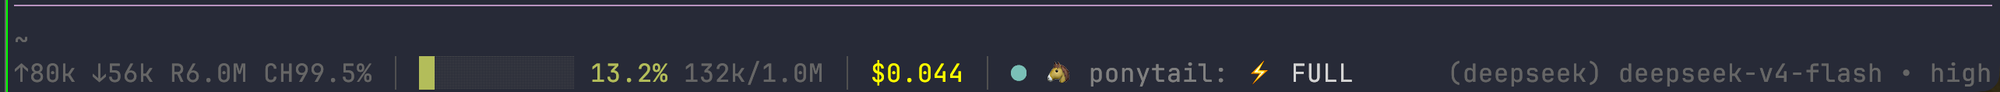
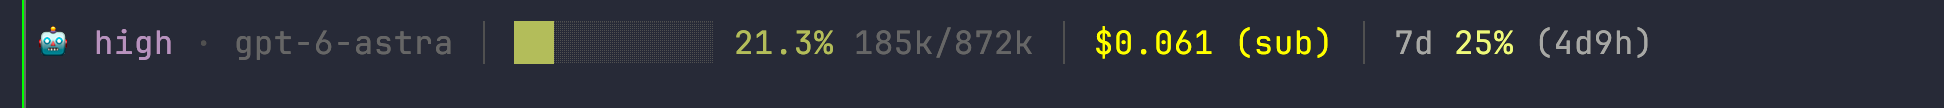
docs: 换成当前版本的底栏截图
新图是 Codex Pro 账户（只有一个 7d 窗口）且不在 git 仓库里（无分支段），
图注相应改写，另外两家 provider 的额度段留作示例对照。

Claude-Session: https://claude.ai/code/session_014fprpit3pKddqHoaLpzKJn

diff --git a/README.md b/README.md
@@ -8,11 +8,11 @@ Every other pi extension covers either subscription windows (Anthropic OAuth, Co
 
 ![The merged footer line](./docs/footer.png)
 
-That shot is on DeepSeek, whose balance is comfortably funded — so the quota segment withdraws itself instead of leaving a gap. On a subscription provider the same line ends with:
+That shot is a Codex Pro account: `7d 25% (4d9h)` is the single 7-day window it returns — no 5h, because Pro does not have one. The branch segment is absent because that session is not in a git repository. The quota segment on the other providers:
 
 ```
-7d 25% (4d11h)                        Codex Pro — one 7-day window is all the account has
 5h 98% (3h12m) · 7d 49% · Fable 13%   Claude — one entry per window
+(nothing)                             DeepSeek — a funded balance stays out of the way
 ```
 
 Verified against **pi 0.85.1 / Node 22.20.0**.

diff --git a/README.zh-CN.md b/README.zh-CN.md
@@ -8,11 +8,11 @@
 
 ![合并后的底栏](./docs/footer.png)
 
-这张图是 DeepSeek 场景，余额充足，所以额度段自己撤掉了，不留空位。换成订阅制 provider 时，同一行末尾会是：
+这张图是 Codex Pro 账户：`7d 25% (4d9h)` 就是它返回的唯一一个 7 天窗口 —— 没有 5h，因为 Pro 本来就没有。分支段不在，是因为那个会话不在 git 仓库里。换成其他 provider 时，额度段会是：
 
 ```
-7d 25% (4d11h)                        Codex Pro —— 账户只有这一个 7 天窗口
 5h 98% (3h12m) · 7d 49% · Fable 13%   Claude —— 一个窗口一条
+（什么都没有）                          DeepSeek —— 余额充足就不占位
 ```
 
 验证版本 **pi 0.85.1 / Node 22.20.0**。
